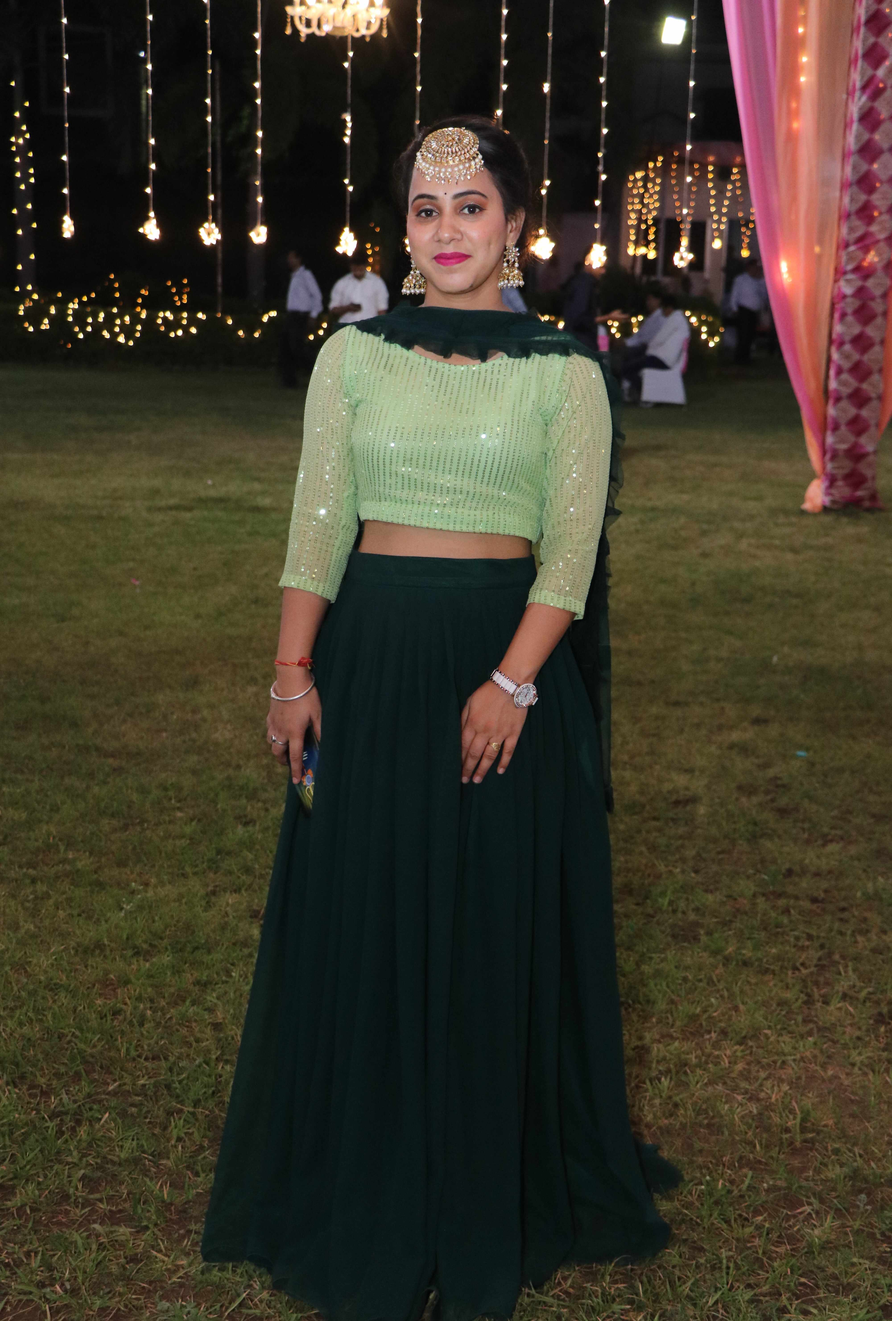
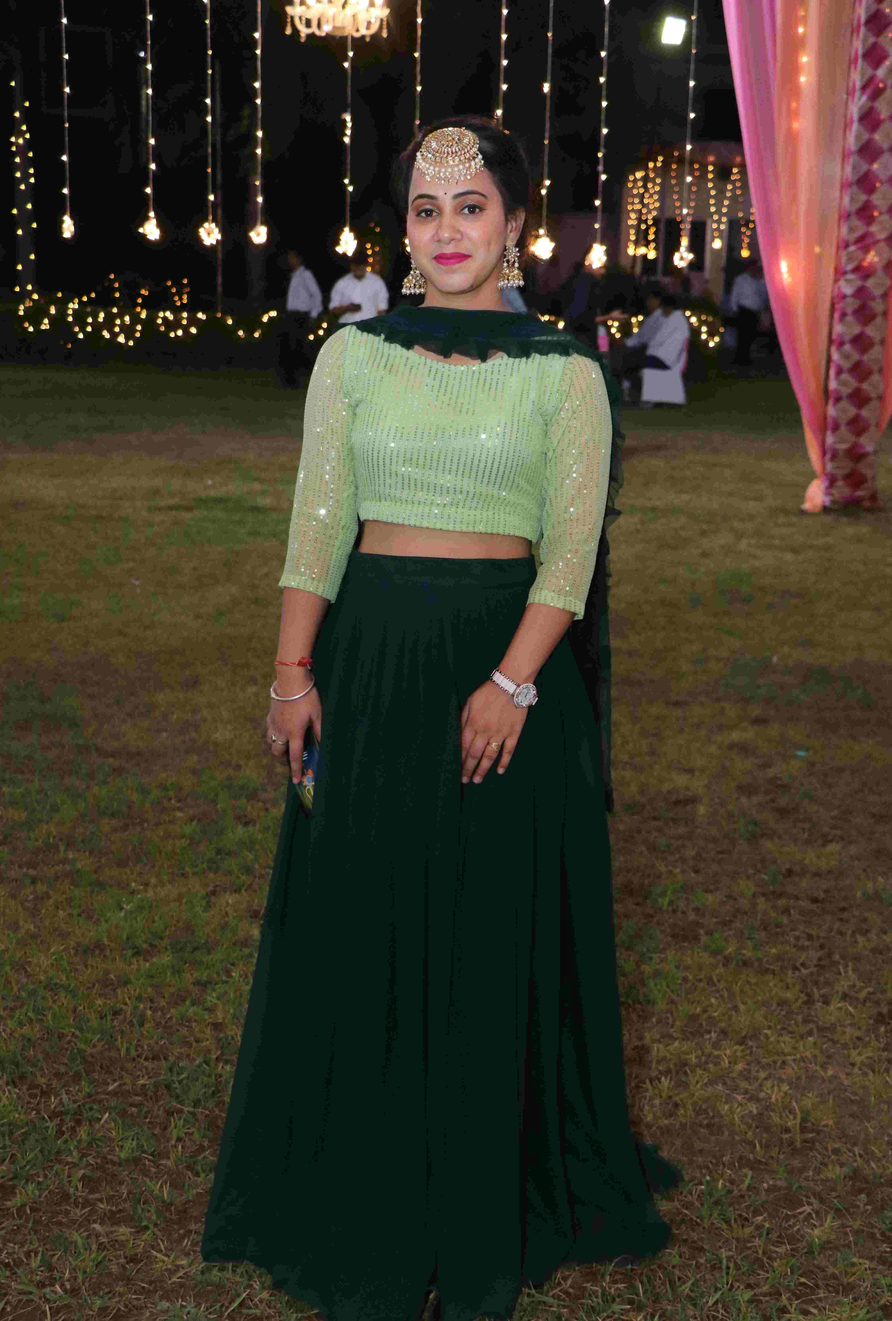
reduced pictures size

Changed region(s): [[0.4688, 0.0937, 0.5312, 0.125], [0.7188, 0.125, 0.75, 0.1562], [0.5625, 0.1874, 0.5938, 0.2187]]

diff --git a/Frontend/index.html b/Frontend/index.html
@@ -127,7 +127,7 @@
         <section class="dark-section" id="Bride">
 
             <div class="text-center">
-                <img src="./assets/images/ganesha.png" style="height: 100px; margin-bottom: -20px;">
+                <img src="./assets/images/ganesha.png" alt="श्री गणेशाय नमः" style="height: 100px; margin-bottom: -20px;">
                 <h1 class="font-arabic py-4 px-2" style="font-size: 1.1rem">विघ्न हरण मंगल करन श्री गणपति महाराज। प्रथम निमंत्रण आपको पूरण करियो काज।।</h1>
 
                 <!-- Love animation -->
@@ -156,7 +156,7 @@
 
                     <div data-aos="fade-right" data-aos-duration="2000">
                         <div class="img-crop border border-3 border-light shadow my-4 mx-auto">
-                            <img src="./assets/images/Bride.JPG" alt="cewe" onclick="util.modal(this)">
+                            <img src="./assets/images/Bride.JPG" alt="Bride" onclick="util.modal(this)">
                         </div>
                         <h1 class="font-esthetic" style="font-size: 3rem;">Pooja Panwar</h1>
                         <p class="mt-3 mb-0" style="font-size: 1.25rem;">Daughter Of</p>
@@ -185,7 +185,7 @@
 
                     <div data-aos="fade-left" data-aos-duration="2000">
                         <div class="img-crop border border-3 border-light shadow my-4 mx-auto">
-                            <img src="./assets/images/Groom1.jpg" alt="cowo" onclick="util.modal(this)">
+                            <img src="./assets/images/Groom1.jpg" alt="Groom" onclick="util.modal(this)">
                         </div>
                         <h1 class="font-esthetic" style="font-size: 3rem;">Keshav Rana</h1>
                         <p class="mt-3 mb-0" style="font-size: 1.25rem;">Son Of</p>

diff --git a/Frontend/app.js b/Frontend/app.js
@@ -207,7 +207,7 @@ const progress = (() => {
         bar.style.width = Math.min((loaded / total) * 100, 100).toString() + "%";
         info.innerText = `Loading assets (${loaded}/${total}) [${parseInt(bar.style.width).toFixed(0)}%]`;
 
-        if (loaded == total) {
+        if (loaded == total - 1) {
             util.show();
         }
     };
